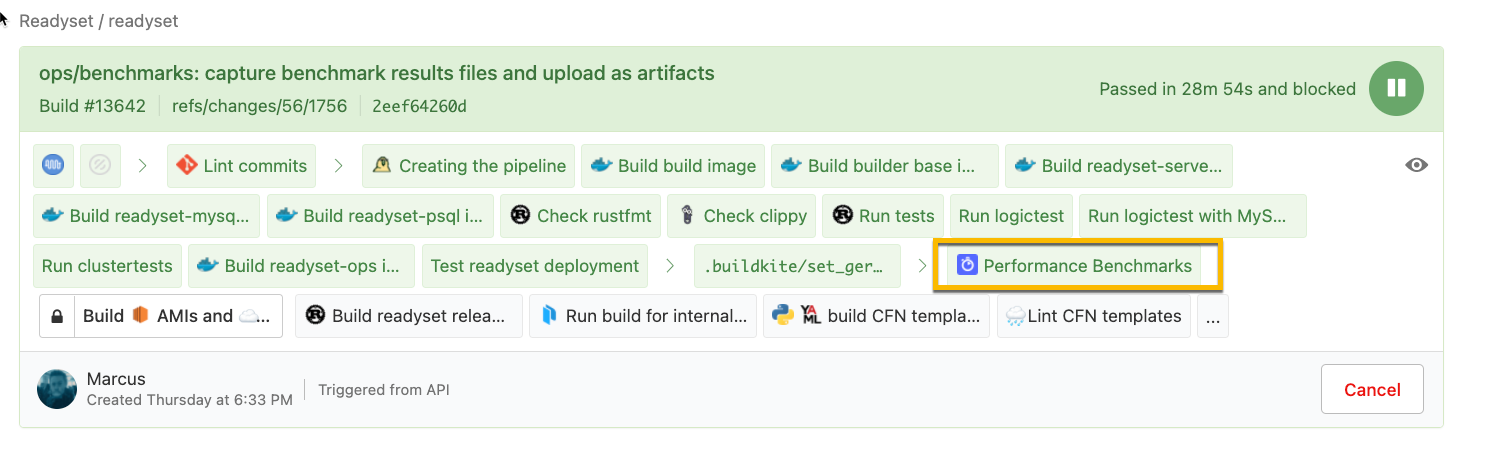
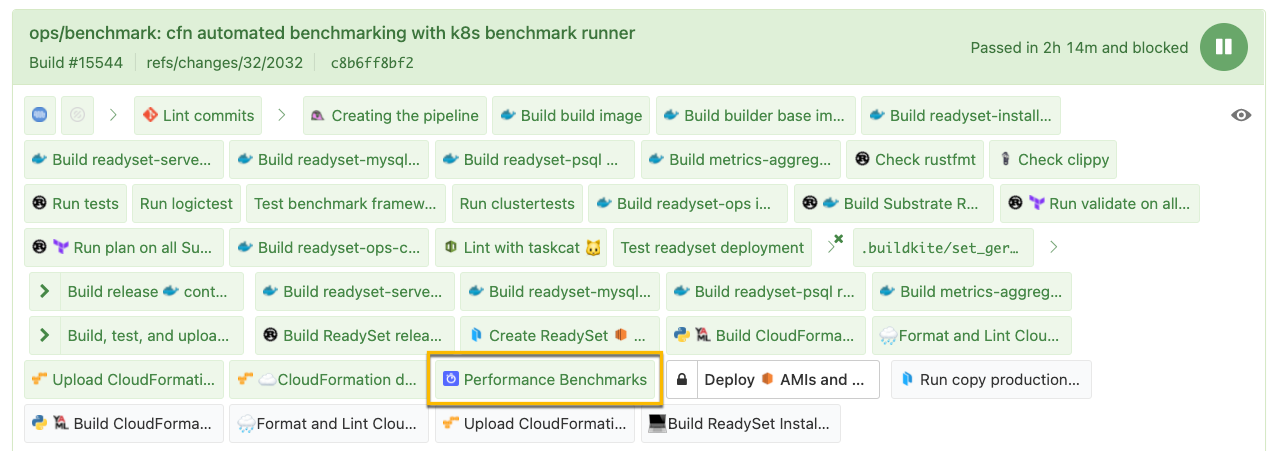
ops/docs: extend ci benchmarking documentation to include cfn + k8s
Adding documentation for the new Cloudformation benchmarking work
included in CL:

https://gerrit.readyset.name/c/readyset/+/2032

+ Refactored some docs around container images to minify txt
+ Updated screenshots for benchmarking steps, based on CL ^
+ Revised previous verbiage to make distinctions between dc & cfn setups

diff --git a/docs/src/benchmarking/ci_execution_mysql.md b/docs/src/benchmarking/ci_execution_mysql.md
@@ -1,44 +1,56 @@
-## Benchmarking in CI (Buildkite)
+## Benchmarking In CI (Buildkite)
 
-At ReadySet, one way we're choosing to execute our performance benchmarks is by using Docker-Compose in CI, with a pre-built test database filled with a dynamically generated dataset.
-
-The purpose of this document is to give the reader an understanding of what is happening during the benchmarking process, where the results can be found, as well as how one can add new benchmark scenarios to the pipeline. This document won't cover how to write benchmarks, but more-so how written benchmarks can be incorporated into the benchmarking CI pipeline. Additionally, after reading this document, you should have a clear idea of the infrastructure that powers the benchmark runners themselves.
+The purpose of this document is to give the reader an understanding of what is happening during the benchmarking process, where the results can be found, as well as how one can add new benchmark scenarios to the pipeline. This document won't cover how to write benchmarks, but more so how written benchmarks can be incorporated into the benchmarking CI pipeline. Additionally, after reading this document, you should have a clear idea of the infrastructure that powers the benchmark runners themselves.
 
 ## Table of Contents
 
 1. [Process Automation Overview](#process-automation-overview)
 2. [Container Images Involved](#container-images-involved)
-3. [When Are Benchmarks Invoked?](#when-are-benchmarks-invoked)
-4. [Where Are Benchmarks Invoked?](#where-are-benchmarks-invoked-in-our-pipelines)
-5. [Where Are Benchmarks Defined in Code?](#where-are-benchmarks-defined-in-code)
-6. [Viewing CI Benchmark Results](#viewing-ci-benchmark-results)
-7. [What Infrastructure Are Tests Run On?](#what-infrastructure-are-tests-run-on)
+3. [Docker-Compose Benchmarking](#docker-compose-benchmarking)
+4. [CloudFormation Benchmarking](#cloudformation-benchmarking-with-k8s-runner)
+5. [When Are Benchmarks Invoked?](#when-are-benchmarks-invoked)
+6. [Where Are Benchmarks Invoked?](#where-are-benchmarks-invoked-in-our-pipelines)
+7. [Where Are Benchmarks Defined in Code?](#where-are-benchmarks-defined-in-code)
+8. [Viewing CI Benchmark Results](#viewing-ci-benchmark-results)
+9. [What Infrastructure Are Tests Run On?](#what-infrastructure-are-tests-run-on)
     * [Infrastructure To Know About](#infrastructure-hostnames)
 
 ### Process Automation Overview
 
-> A picture is worth a thousand words.
+Currently at ReadySet, from a high-level, we're executing our product benchmarks in the following ways:
 
-![Docker-Compose Benchmarking Automation Overview](./images/ci-automation-dc-architecture.png)
+1. On Buildkite agents using Docker-Compose.
+2. In AWS, with CloudFormation provisioned ReadySet Stack. Benchmark runners execute in build K8s cluster.
 
 ### Container Images Involved
 
-In the above diagram, you may have noticed that this pipeline builds `readyset-server`, `readyset-adapter`, and `benchmarks`.
+| Image Name         | Purpose | Builds Occur | Dockerfile                             |
+|--------------------|--------------------|--------------------|----------------------------------------|
+| `305232526136.dkr.ecr.us-east-2.amazonaws.com/readyset-benchmarks` | Benchmark runner | In benchmark pipeline | `build/Dockerfile.readyset-benchmarks` |
+| `305232526136.dkr.ecr.us-east-2.amazonaws.com/readyset-server` | Core ReadySet server with rocksDB | In main readyset pipeline | `build/Dockerfile.readyset-server`     |
+| `305232526136.dkr.ecr.us-east-2.amazonaws.com/readyset-mysql`| ReadySet MySQL adapter | In main readyset pipeline | `build/Dockerfile.readyset-mysql`    |
 
-This is necessary in order for benchmarks to be executed using release binaries, versus those running under debug mode. As you might anticipate, binaries build in debug mode can significantly skew the results of the benchmarks, for the worse. Since customers won't be receiving debug binaries, testing release makes sense.
+### Docker-Compose Benchmarking
 
-For the **benchmark runner** container, aka the `benchmarks` service in the `.buildkite/docker-compose.readyset-benchmark-mysql80.yml` file,
-here is where you can find the Dockerfile:
+To gauge how one might expect docker-compose-based ReadySet environments to perform, we're executing benchmarks in CI using docker-compose. A rather hefty EC2 instance is assigned to the Buildkite queue, which executes this step of the benchmarking pipeline.
 
-`build/Dockerfile.readyset-benchmarks`
+For an overview of how it all works, see the diagram below:
 
-**For ReadySet-Server:**
+<img src="./images/ci-automation-dc-arch.png" width="1024">
 
-`build/Dockerfile.readyset-server`
+### CloudFormation Benchmarking With K8s Runner
 
-**For ReadySet-MySQL (Adapter):**
+Similarly to the docker-compose benchmarks, in this case, we want to benchmark how ReadySet performs when deployed using our ReadySet MySQL CloudFormation template, via in this case `benchmark-super-template.yaml`. This stack deploys an RDS instance using a DB snapshot associated with the DB version, engine, etc. that the benchmarks will be executed against. This snapshot's source DB instance was populated using the data generator.
 
-`build/Dockerfile.readyset-mysql`
+In contrast to the docker-compose setup, this process runs the benchmark binary in Kubernetes, not on the build agent directly. The benchmark runner is implemented in the form of a K8s job, which is templatized and deployed into the build Kubernetes cluster using [Helm](https://helm.sh/docs/). The chart for the job can be found here:
+
+`benchmarks/provisioning/helm/charts/readyset-benchmarks/`
+
+As demand for benchmark runner capacity increases, `cluster-autoscaler` will dynamically scale the fleet of EC2 instances in our autoscaling group. If there's not enough capacity, new nodes will be added on-demand to execute a benchmark.
+
+For an overview of how it all works, see the diagram below:
+
+<img src="./images/ci-automation-cfn-k8s-arch.png" width="1024">
 
 ### When Are Benchmarks Invoked?
 
@@ -108,7 +120,7 @@ There are now two options for viewing benchmark results:
 
   `benchmark_<metric_name_here>{instance="ci-benchmark-${benchmark_pipeline_build_number}-{commit_sha:0:7}"}`
 
-2) Under the artifacts section of the `:pipeline: Run Noria Benchmark in Docker-Compose` step in the benchmark pipeline, as seen below:
+2) Under the artifacts section of the `:pipeline: Run ReadySet Benchmark in Docker-Compose` or the `:algolia: Launching benchmark job in :k8s:` step in the benchmark pipeline, as seen below:
 
 ![Artifact Example](./images/ci-results-file-artifact.png)
 
